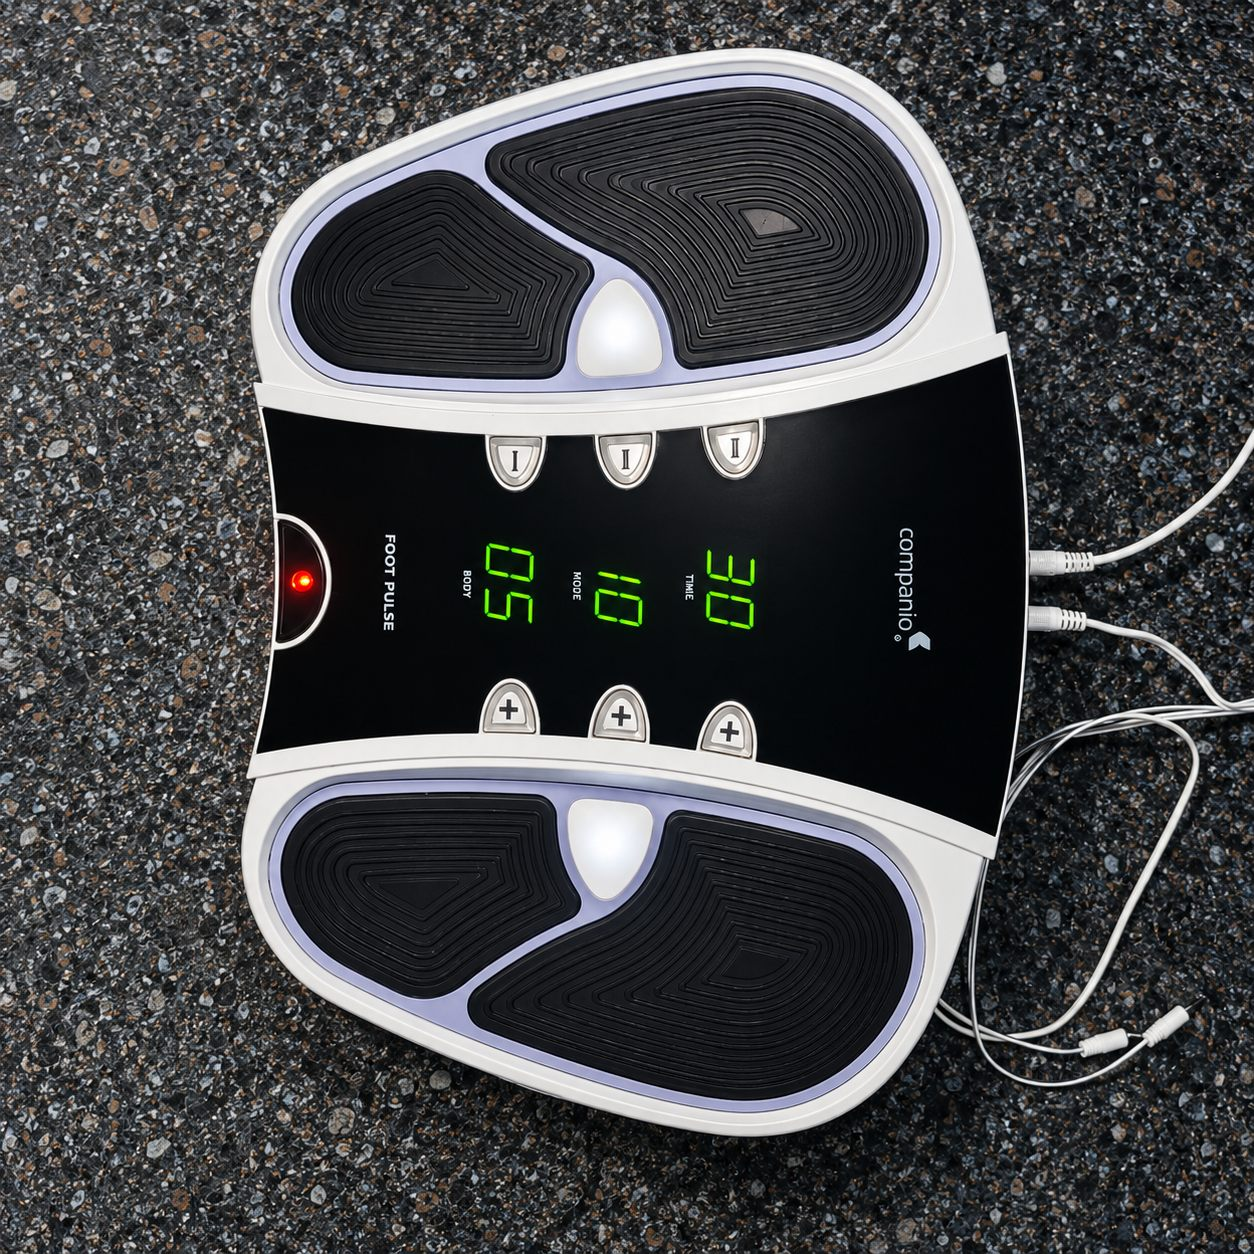
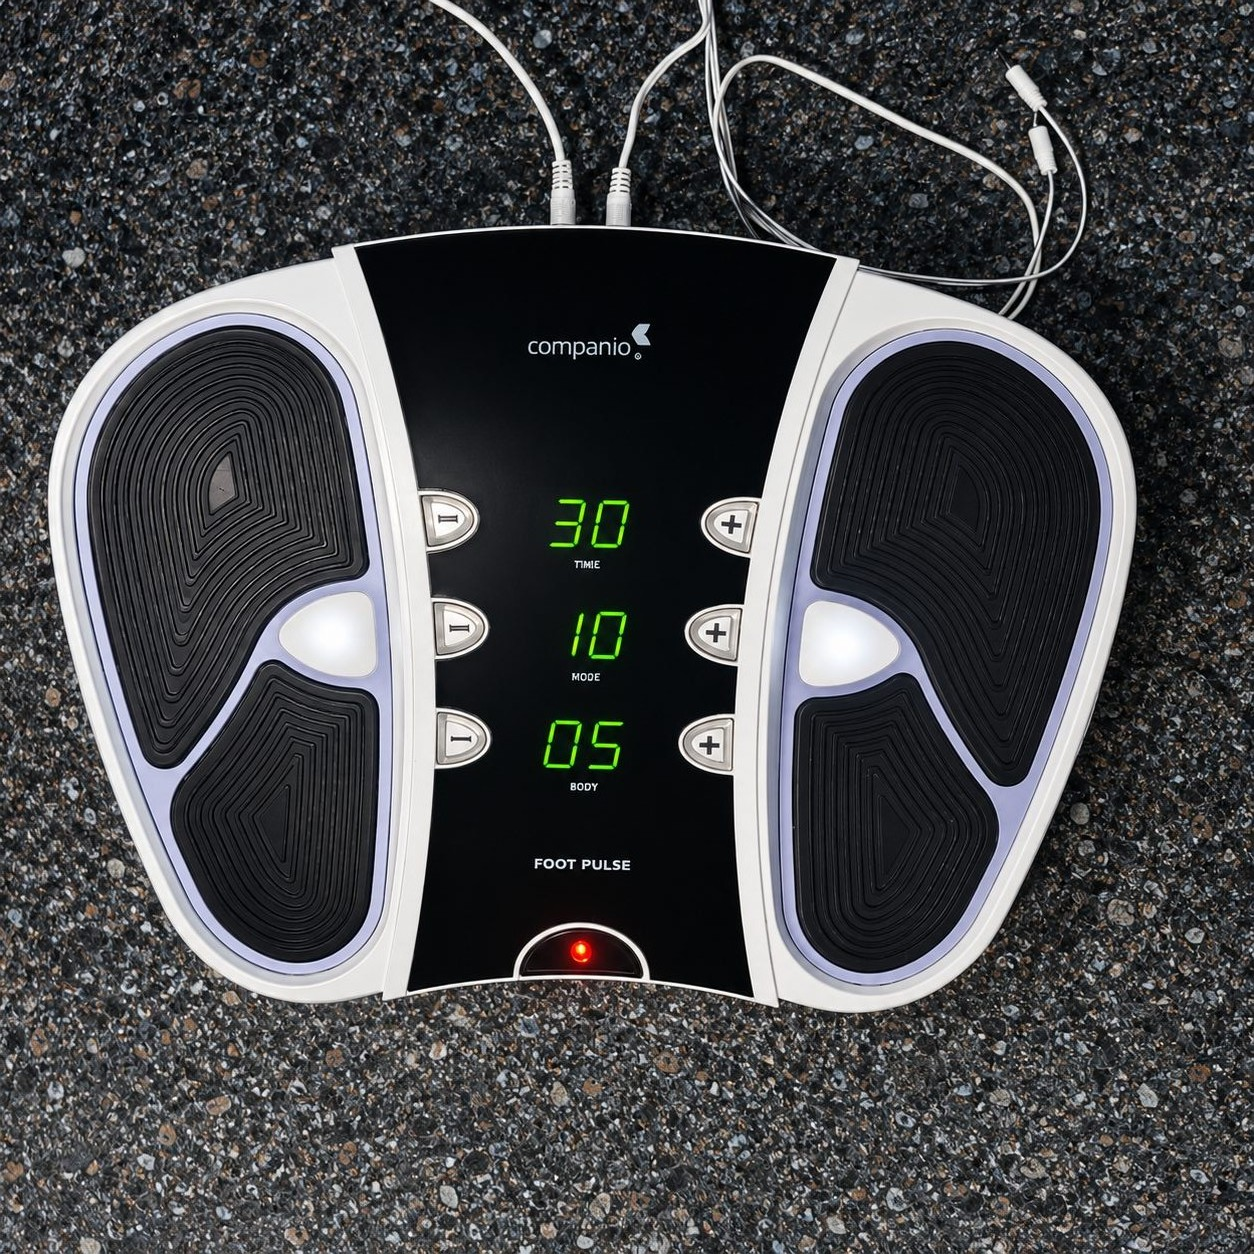
Update hero and equipment imagery

diff --git a/src/components/site/Hero.tsx b/src/components/site/Hero.tsx
@@ -1,39 +1,22 @@
 import { Calendar, HeartPulse, Phone, ShieldCheck, Sparkles } from "lucide-react";
-import clinicConsultationRoom from "@/assets/clinic-consultation-room.jpg";
-import clinicEntrance from "@/assets/clinic-entrance.jpg";
-import clinicTreatmentSuite from "@/assets/clinic-treatment-suite.jpg";
-import clinicWaitingArea from "@/assets/clinic-waiting-area.jpg";
 import { Button } from "@/components/ui/button";
 import { useLang } from "@/i18n/LanguageProvider";
 import { buildCallLink, buildWhatsAppLink, CLINIC } from "@/lib/clinic";
 
-const HERO_IMAGES = [
-  { src: clinicEntrance, position: "object-[center_38%]" },
-  { src: clinicTreatmentSuite, position: "object-[center_52%]" },
-  { src: clinicWaitingArea, position: "object-[center_48%]" },
-  { src: clinicConsultationRoom, position: "object-[center_50%]" },
-];
-
 export function Hero() {
   const { t } = useLang();
+  const heroTitle =
+    t.hero.title === "Best Physiotherapy Clinic in Tirupati" ? (
+      <>
+        Best Physiotherapy Clinic{" "}
+        <span className="block whitespace-nowrap">in Tirupati</span>
+      </>
+    ) : (
+      t.hero.title
+    );
 
   return (
-    <section className="relative isolate min-h-[calc(100svh-1rem)] overflow-hidden px-4 pb-14 pt-28 text-center md:min-h-[760px] md:pb-20 md:pt-36">
-      {HERO_IMAGES.map((image, index) => (
-        <img
-          key={image.src}
-          src={image.src}
-          alt=""
-          className={`animate-hero-slide absolute inset-0 -z-20 size-full object-cover ${image.position} blur-[0.5px] saturate-[1.08]`}
-          style={{ animationDelay: `${index * 6}s` }}
-          fetchPriority={index === 0 ? "high" : undefined}
-          loading={index === 0 ? undefined : "lazy"}
-          decoding="async"
-          width={800}
-          height={1067}
-          aria-hidden
-        />
-      ))}
+    <section className="bg-hero-gradient relative isolate min-h-[calc(100svh-1rem)] overflow-hidden px-4 pb-14 pt-28 text-center md:min-h-[760px] md:pb-20 md:pt-36">
       <div
         className="absolute inset-0 -z-10 bg-[linear-gradient(180deg,rgba(255,255,255,0.64)_0%,rgba(255,255,255,0.58)_42%,rgba(255,255,255,0.84)_100%)]"
         aria-hidden
@@ -50,7 +33,7 @@ export function Hero() {
         </span>
 
         <h1 className="mx-auto mt-5 max-w-4xl font-display text-[2.35rem] font-semibold leading-[1.06] tracking-tight text-foreground sm:text-5xl md:text-6xl">
-          {t.hero.title}
+          {heroTitle}
         </h1>
 
         <p className="mx-auto mt-5 max-w-2xl text-base leading-7 text-muted-foreground sm:text-lg">

diff --git a/src/styles.css b/src/styles.css
@@ -260,27 +260,6 @@
     animation: float-slow 8s ease-in-out infinite;
   }
 
-  @keyframes hero-slide {
-    0%,
-    22% {
-      opacity: 1;
-      transform: scale(1.03);
-    }
-    29%,
-    100% {
-      opacity: 0;
-      transform: scale(1.07);
-    }
-  }
-  .animate-hero-slide {
-    opacity: 0;
-    animation: hero-slide 24s ease-in-out infinite;
-    will-change: opacity, transform;
-  }
-  .animate-hero-slide:first-of-type {
-    opacity: 1;
-  }
-
   @keyframes marquee-ltr {
     from {
       transform: translateX(-50%);

diff --git a/src/i18n/dictionaries.ts b/src/i18n/dictionaries.ts
@@ -282,7 +282,7 @@
         { t: "TENS / IFT Stimulator", d: "Electrical nerve stimulation for chronic pain relief." },
         { t: "Muscle Stimulator", d: "Targeted stimulation for muscle activation and recovery." },
         {
-          t: "G5 Massager (Advanced)",
+          t: "G15 Massager (Advanced)",
           d: "Advanced rhythmic massage support for stubborn muscle tightness and recovery.",
         },
         {
@@ -291,6 +291,14 @@
         },
         { t: "Wax Therapy", d: "Therapeutic heat support for stiffness, pain and joint comfort." },
         { t: "Cervical & Lumbar Traction", d: "Decompression therapy for neck and back pain." },
+        {
+          t: "CPM Machine",
+          d: "Continuous passive motion support for joint mobility and post-surgery recovery.",
+        },
+        {
+          t: "IR Therapy",
+          d: "Infrared heat therapy for soothing stiffness, pain and muscle tightness.",
+        },
         {
           t: "Foot Pulse",
           d: "Foot circulation and comfort support for guided recovery.",
@@ -575,7 +583,7 @@
           d: "మసిల్ యాక్టివేషన్ మరియు రికవరీకి టార్గెటెడ్ స్టిమ్యులేషన్.",
         },
         {
-          t: "G5 మసాజర్ (అడ్వాన్స్డ్)",
+          t: "G15 మసాజర్ (అడ్వాన్స్డ్)",
           d: "మసిల్ టైట్నెస్ మరియు రికవరీకి అడ్వాన్స్డ్ రిథమిక్ మసాజ్ సపోర్ట్.",
         },
         { t: "ఊబకాయం నిర్వహణ", d: "బరువు, చలనశీలత మరియు జీవనశైలి సంరక్షణకు క్లినిక్ గైడెన్స్." },
@@ -584,6 +592,14 @@
           d: "గట్టితనం, నొప్పి మరియు కీళ్ల సౌకర్యం కోసం థెరప్యూటిక్ హీట్ సపోర్ట్.",
         },
         { t: "సర్వైకల్ & లంబార్ ట్రాక్షన్", d: "మెడ, నడుము నొప్పికి డీకంప్రెషన్." },
+        {
+          t: "CPM మెషిన్",
+          d: "కీళ్ల చలనశీలత మరియు ఆపరేషన్ తర్వాత రికవరీకి కంటిన్యూయస్ పాసివ్ మోషన్ సపోర్ట్.",
+        },
+        {
+          t: "IR థెరపీ",
+          d: "గట్టితనం, నొప్పి మరియు మసిల్ టైట్నెస్కు ఇన్ఫ్రారెడ్ హీట్ థెరపీ.",
+        },
         { t: "ఫుట్ పల్స్", d: "పాదాల సర్క్యులేషన్ మరియు కంఫర్ట్కు రికవరీ సపోర్ట్." },
         { t: "వైబ్రేటర్ మసాజర్", d: "టైట్ మసిల్స్ మరియు రికవరీకి టార్గెటెడ్ వైబ్రేషన్ మసాజ్." },
         { t: "ట్రీట్మెంట్ టేబుల్", d: "మాన్యువల్ థెరపీ మరియు చికిత్సల కోసం సౌకర్యవంతమైన సెటప్." },

diff --git a/src/components/site/Gallery.tsx b/src/components/site/Gallery.tsx
@@ -1,8 +1,10 @@
 import { Activity, ClipboardCheck, HeartPulse } from "lucide-react";
+import cpmImage from "@/assets/equipment/cpm-machine.jpg";
+import g15Image from "@/assets/equipment/g15-massager.jpg";
 import iftTensImage from "@/assets/equipment/ift-tens-stimulator.jpg";
+import infraredImage from "@/assets/equipment/infrared-lamp.jpg";
 import laserImage from "@/assets/equipment/laser-therapy.jpg";
 import percussionImage from "@/assets/equipment/percussion-therapy.jpg";
-import shockwaveImage from "@/assets/equipment/shockwave-therapy.jpg";
 import shortwaveImage from "@/assets/equipment/shortwave-diathermy.jpg";
 import tractionImage from "@/assets/equipment/traction-therapy.jpg";
 import treatmentTableImage from "@/assets/equipment/treatment-table.jpg";
@@ -43,10 +45,12 @@ const FEATURE_ICONS = [Activity, ClipboardCheck, HeartPulse];
 const EQUIPMENT_STRIP = [
   { src: iftTensImage, label: "TENS and IFT therapy" },
   { src: ultrasoundImage, label: "Muscle stimulator" },
-  { src: shockwaveImage, label: "G5 Massager (Advanced)" },
+  { src: g15Image, label: "G15 Massager (Advanced)" },
   { src: laserImage, label: "Obesity management" },
   { src: shortwaveImage, label: "Wax therapy" },
   { src: tractionImage, label: "Traction therapy" },
+  { src: cpmImage, label: "CPM machine" },
+  { src: infraredImage, label: "IR therapy" },
   { src: vibrationImage, label: "Foot pulse" },
   { src: percussionImage, label: "Vibrator massager" },
   { src: treatmentTableImage, label: "Treatment table" },

diff --git a/src/components/site/Machinery.tsx b/src/components/site/Machinery.tsx
@@ -1,8 +1,10 @@
 import { Activity } from "lucide-react";
+import cpmImage from "@/assets/equipment/cpm-machine.jpg";
+import g15Image from "@/assets/equipment/g15-massager.jpg";
 import iftTensImage from "@/assets/equipment/ift-tens-stimulator.jpg";
+import infraredImage from "@/assets/equipment/infrared-lamp.jpg";
 import laserImage from "@/assets/equipment/laser-therapy.jpg";
 import percussionImage from "@/assets/equipment/percussion-therapy.jpg";
-import shockwaveImage from "@/assets/equipment/shockwave-therapy.jpg";
 import shortwaveImage from "@/assets/equipment/shortwave-diathermy.jpg";
 import tractionImage from "@/assets/equipment/traction-therapy.jpg";
 import treatmentTableImage from "@/assets/equipment/treatment-table.jpg";
@@ -15,10 +17,12 @@ import { buildWhatsAppLink } from "@/lib/clinic";
 const EQUIPMENT_IMAGES = [
   iftTensImage,
   ultrasoundImage,
-  shockwaveImage,
+  g15Image,
   laserImage,
   shortwaveImage,
   tractionImage,
+  cpmImage,
+  infraredImage,
   vibrationImage,
   percussionImage,
   treatmentTableImage,